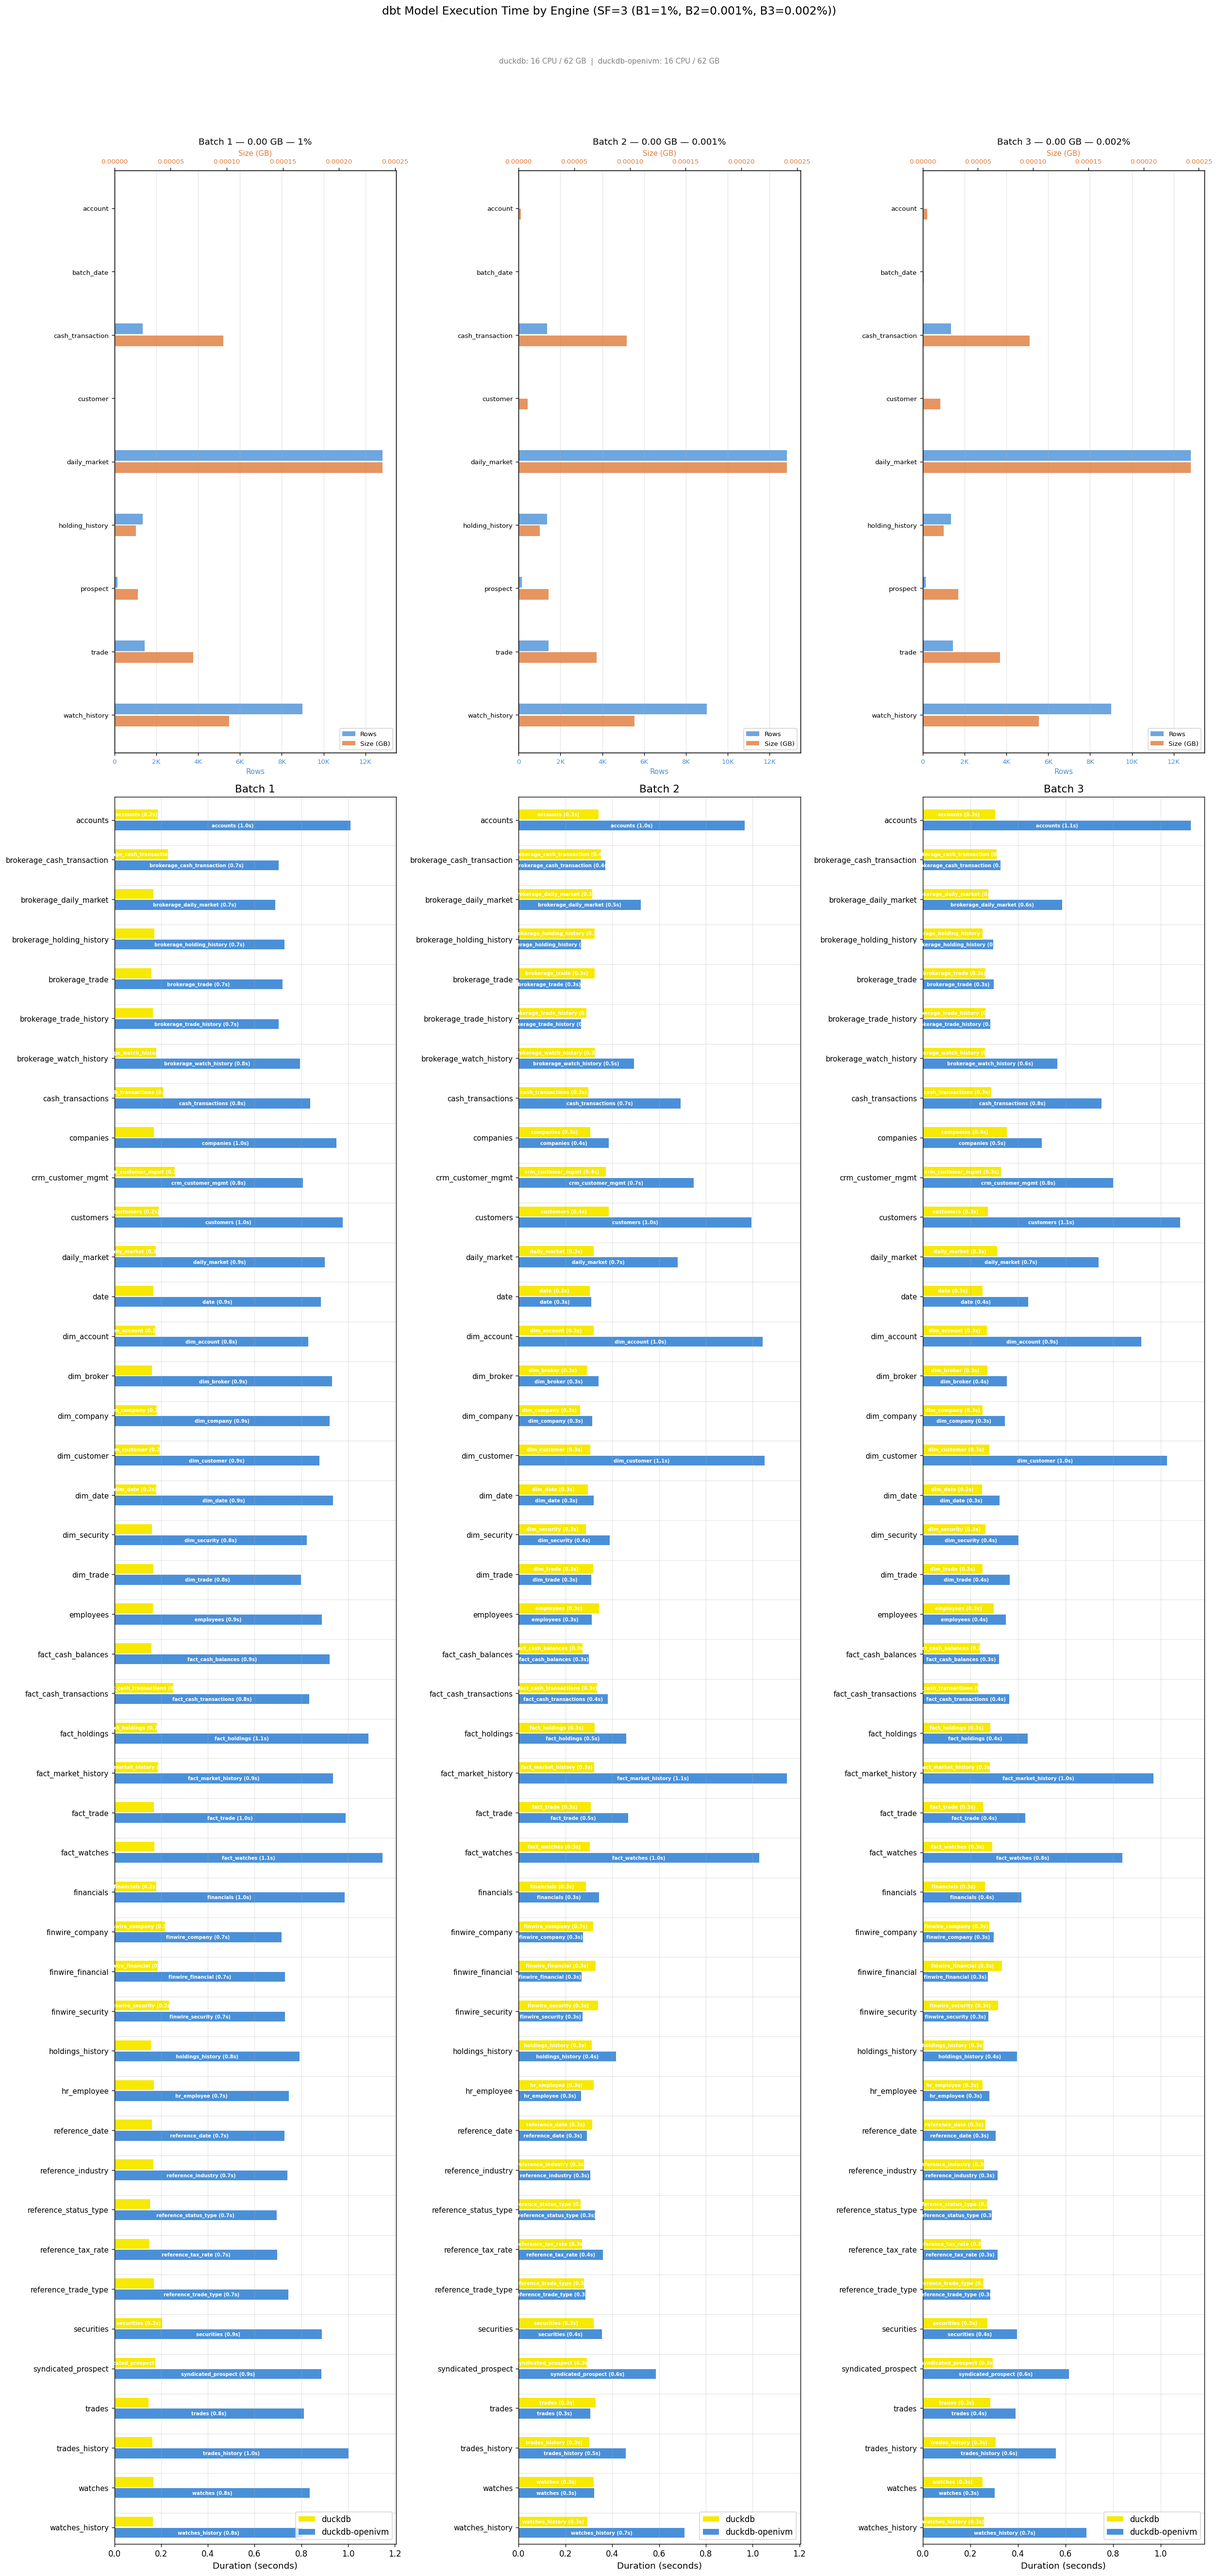
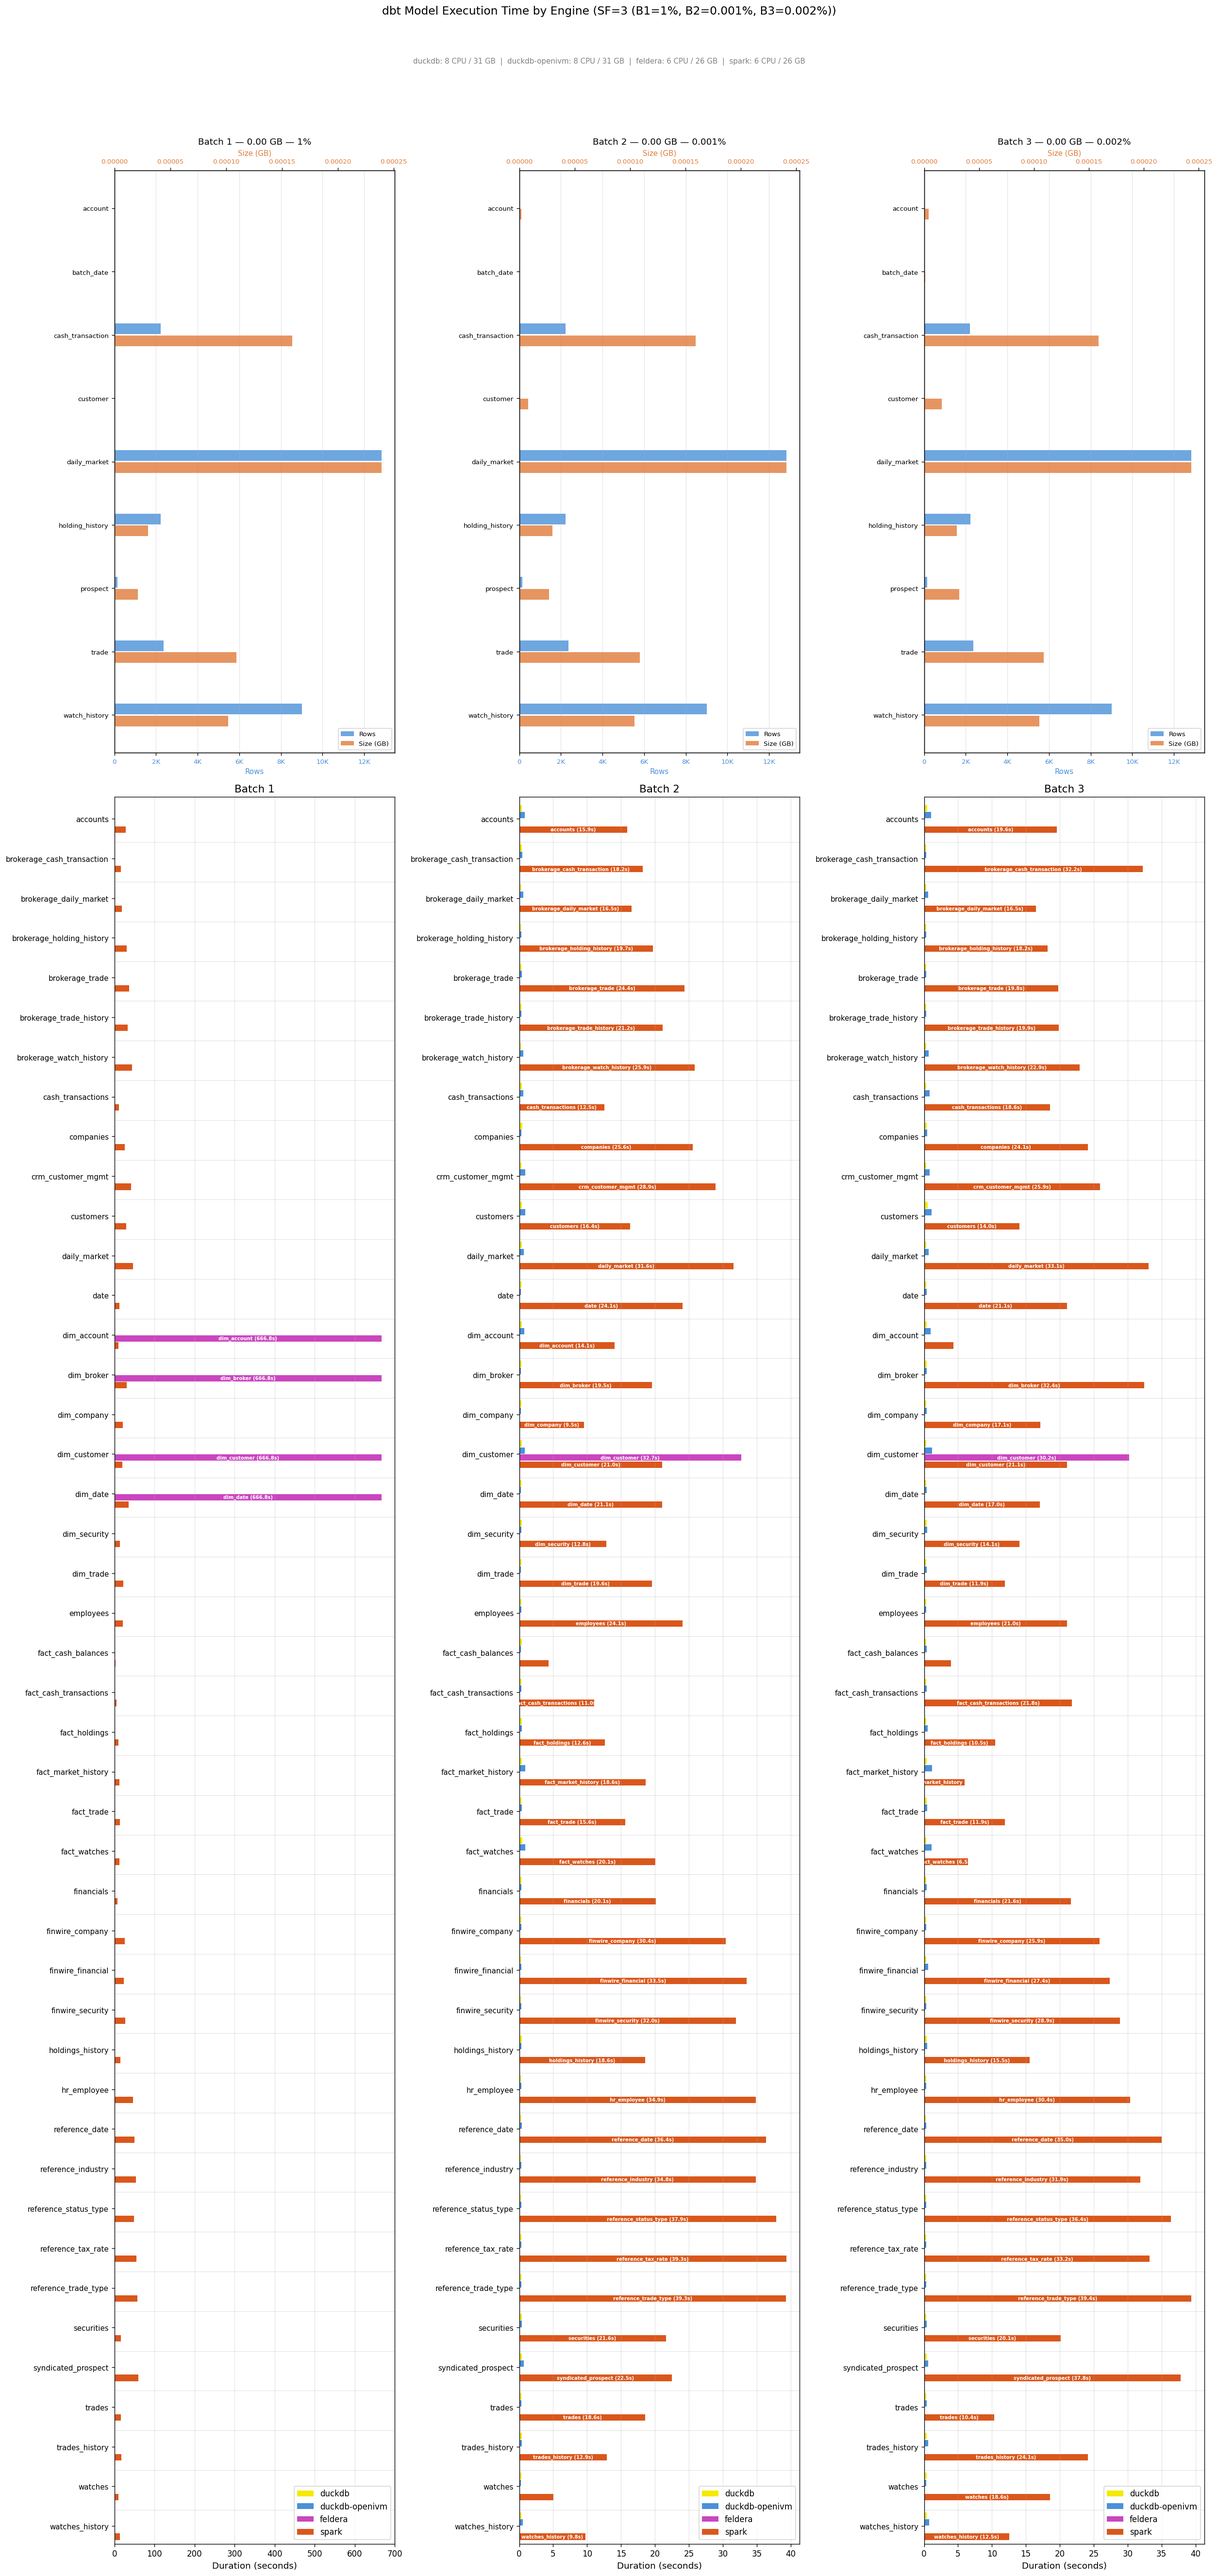
Updated chart

diff --git a/README.md b/README.md
@@ -51,13 +51,13 @@ At the end, you should see the benchmark-server stream results like:
 ```text
 === All benchmarks completed successfully ===
 
-                1           2           3
-Duckdb:         00:00:22 -> 00:00:26 -> 00:00:28
-Spark:          00:03:44 -> 00:02:22 -> 00:02:18
-Feldera:        00:11:38 -> 00:00:39 -> 00:00:34
-Duckdb-openivm: 00:00:46 -> 00:00:32 -> 00:00:32
+                 1           2           3
+Duckdb:          00:00:22 -> 00:00:26 -> 00:00:26
+Duckdb-openivm:  00:00:53 -> 00:00:33 -> 00:00:35
+Feldera:         00:11:20 -> 00:00:39 -> 00:00:37
+Spark:           00:03:32 -> 00:02:16 -> 00:02:14
 
-================= 00:24:24 ==================
+====================== 00:16:51 ======================
 ```
 
 Runs 3 batches per engine (Full load`batch1` → append `batch2` → append `batch3`).
@@ -86,6 +86,7 @@ Runs 3 batches per engine (Full load`batch1` → append `batch2` → append `bat
 ### Notes
 
 - The Feldera initial run compiles a Rust Binary for all SQL in a pipeline - [see here](https://github.com/mdrakiburrahman/feldera/blob/dev/mdrrahman/research/.research/demo/docs/00-end-to-end.md#2-sql-submission-to-running-pipeline), which takes a long time for the pipeline start in batch 1
+- Since duckdb runs in proc in the `dbt-server`, 2 additional cores are allocated for the server vs. other engines which run dedicated
 
 ### Scale Factor: 3 (1%, 0.001%, 0.002%)
 
